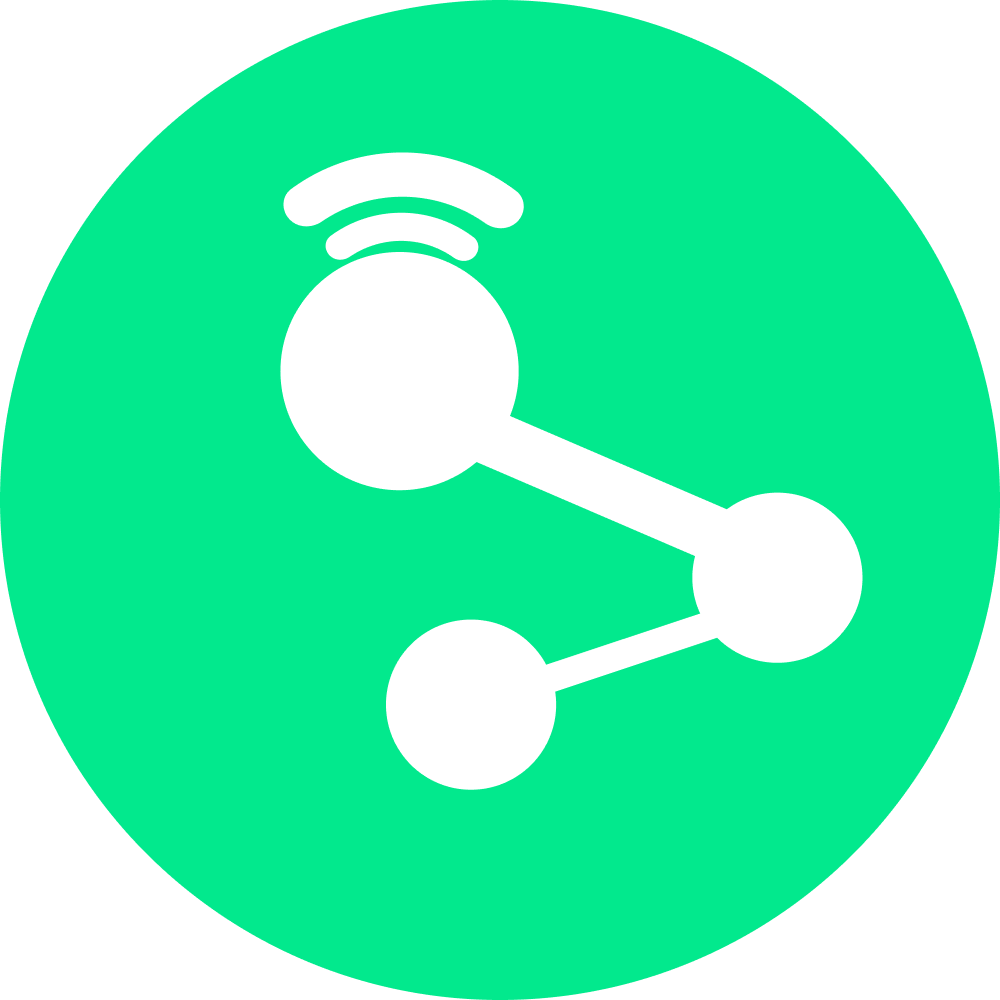
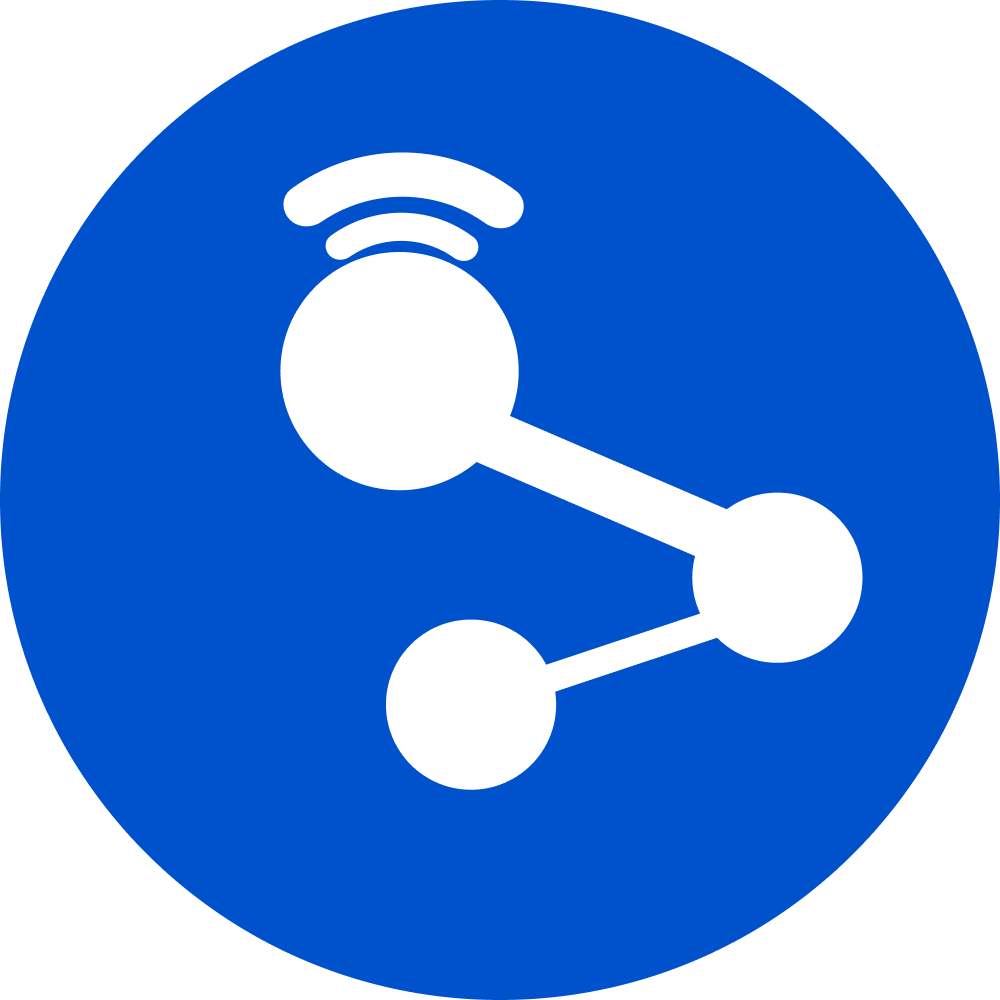
producción

diff --git a/src/components/header/Header.jsx b/src/components/header/Header.jsx
@@ -1,13 +1,13 @@
 import React, { useState, useRef } from 'react';
-import {
-  Plus,
-} from 'lucide-react';
+import { Plus } from 'lucide-react';
 import {
   BellOutlined,
   MailOutlined,
   CalendarOutlined,
   SettingOutlined,
-  LogoutOutlined
+  LogoutOutlined,
+  QuestionCircleOutlined,
+  AppstoreOutlined
 } from '@ant-design/icons';
 import {
   Input,
@@ -15,14 +15,19 @@ import {
   Tooltip,
   Dropdown,
   Menu,
-  Button
+  Button,
+  Space
 } from 'antd';
 import { useNavigate, Link } from 'react-router-dom';
 import { useSocket } from '../Context/SocketContext';
 import { useAuth } from '../Context/AuthProvider';
 import NotificationModal from '../communication/components/NotificationModal';
 import PlusModal from "../MoneyManager/transactions/PlusModal";
-const Header = ({ unreadEmailsCount }) => {
+
+import picture from '../../images/F.png';
+
+
+const Header = ({ }) => {
   const [showNotificationModal, setShowNotificationModal] = useState(false);
   const [searchTerm, setSearchTerm] = useState('');
   const navigate = useNavigate();
@@ -78,62 +83,78 @@ const Header = ({ unreadEmailsCount }) => {
   );
 
   return (
-    <div className="fixed top-0 left-0 w-full bg-white shadow-sm z-50 h-11 flex items-center px-4">
+    <div className="fixed top-0 left-0 w-full bg-white border-b border-gray-200 z-50 h-14 flex items-center px-4">
       <div className="w-full flex items-center justify-between">
-        <Link to="/index">
-          <img
-            src="https://res.cloudinary.com/djbe9agfz/image/upload/v1726013391/LOGO_i1vjvs.png"
-            alt="Logo Lanet"
-            className="h-6 "
-          />
-        </Link>
-        <div className="flex items-center space-x-3">
+        <div className="flex items-center space-x-4">
 
-          <PlusModal
-            isOpen={isPlusModalOpen}
-            onClose={closePlusModal}
-            buttonPosition={buttonPosition}
-          />
-
-          <Button
-            ref={createButtonRef}
-            onClick={openPlusModal}
-            className="px-4 py-1 bg-green-500 text-white"
-            style={{ borderRadius: 0 }}
-          >
-            Crear
-            <Plus className="w-5 h-5" />
-
-          </Button>
-          <Input.Search
-            placeholder="Search..."
-            allowClear
-            enterButton
-            value={searchTerm}
-            onChange={(e) => setSearchTerm(e.target.value)}
-            onSearch={handleSearch}
-            style={{ width: 180 }}
-            className="hidden md:block"
-          />
-
-
-          <Tooltip title="Notifications">
-            <Badge count={notifications.length} size="small">
-              <BellOutlined
-                className="text-lg cursor-pointer"
-                onClick={() => setShowNotificationModal(true)}
-              />
-            </Badge>
-          </Tooltip>
-          <Tooltip title="Calendar">
-            <CalendarOutlined
-              className="text-lg cursor-pointer"
-              onClick={() => navigate('/index/calendar')}
+          <Link to="/index" className="flex items-center space-x-2">
+            <img
+              src={picture}
+              alt="Logo"
+              className="h-8"
             />
-          </Tooltip>
-          <Dropdown overlay={menu} trigger={['click']}>
-            <SettingOutlined className="text-lg cursor-pointer" />
-          </Dropdown>
+            <span className="text-[#44546f] text-lg font-medium">Ispsuite</span>
+          </Link>
+        </div>
+
+        <div className="flex items-center w-[65%] justify-between">
+          <div className='flex items-center '>
+            <Input.Search
+              placeholder="Buscar"
+              allowClear
+              onSearch={handleSearch}
+              value={searchTerm}
+              onChange={(e) => setSearchTerm(e.target.value)}
+              style={{
+                width: 400,
+                maxWidth: '100%'
+              }}
+              className="hidden md:block mr-2"
+            />
+
+
+            <Button
+              ref={createButtonRef}
+              onClick={openPlusModal}
+              type="primary"
+              className="flex items-center"
+              style={{
+                backgroundColor: '#0052CC',
+                height: '32px',
+                borderRadius: '3px',
+                padding: '0 10px'
+              }}
+            >
+              <Plus className="w-4 h-4 mr-1" />
+              Crear
+            </Button>
+
+          </div>
+
+
+          <Space size="middle">
+            <Tooltip title="Notificaciones">
+              <Badge count={notifications.length} size="small">
+                <BellOutlined className="text-[#44546f] text-xl cursor-pointer hover:bg-[#091e420f] p-2 rounded" />
+              </Badge>
+            </Tooltip>
+
+            <Tooltip title="Ayuda">
+              <QuestionCircleOutlined className="text-[#44546f] text-xl cursor-pointer hover:bg-[#091e420f] p-2 rounded" />
+            </Tooltip>
+
+            <Tooltip title="Configuración">
+              <Dropdown overlay={menu} trigger={['click']}>
+                <SettingOutlined className="text-[#44546f] text-xl cursor-pointer hover:bg-[#091e420f] p-2 rounded" />
+              </Dropdown>
+            </Tooltip>
+
+            <Tooltip title="Perfil">
+              <div className="w-8 h-8 rounded-full bg-[#0052CC] flex items-center justify-center cursor-pointer">
+                <span className="text-white text-sm">US</span>
+              </div>
+            </Tooltip>
+          </Space>
         </div>
       </div>
 
@@ -142,8 +163,15 @@ const Header = ({ unreadEmailsCount }) => {
         onClose={() => setShowNotificationModal(false)}
         notifications={notifications}
       />
+
+      <PlusModal
+        isOpen={isPlusModalOpen}
+        onClose={closePlusModal}
+        buttonPosition={buttonPosition}
+      />
     </div>
   );
+
 };
 
 export default Header;

diff --git a/src/components/MoneyManager/transactions/Add/expense/AddExpense.jsx b/src/components/MoneyManager/transactions/Add/expense/AddExpense.jsx
@@ -31,6 +31,7 @@ const AddExpense = () => {
   const [tipo, setTipo] = useState("");
   const [accounts, setAccounts] = useState([]);
   const [date, setDate] = useState(dayjs());
+  const [proveedores, setProveedores] = useState("");
 
 
 
@@ -96,11 +97,26 @@ const AddExpense = () => {
   useEffect(() => {
 
     fetchAccounts();
+    fetchProveedores();
 
   }, []);
 
 
   //---------------------------FETCH---------------------------//
+
+
+
+
+  const fetchProveedores = async () => {
+    try {
+      const response = await fetch(`${apiUrl}/providers`);
+      const data = await response.json();
+      // Filtrar las cuentas, excluyendo los préstamos
+      setProveedores(data);
+    } catch (error) {
+      console.error("Error al obtener las cuentas:", error);
+    }
+  };
 
 
 
@@ -327,7 +343,6 @@ const AddExpense = () => {
               className="w-64" // Clase para ajustar el ancho
             />
 
-
             <div className="flex items-center justify-end space-x-4">
               <span className="text-gray-600">Proveedor:</span>
               <Select
@@ -336,12 +351,13 @@ const AddExpense = () => {
                   setproveedor(value);
                 }}
                 className="w-64"
-                placeholder="Selecciona un cajero"
+                placeholder="Selecciona un proveedor"
               >
-                <option value="Proveedor 1">Proveedor 1</option>
-                <option value="Proveedor 2">Proveedor 2</option>
-                <option value="Proveedor 3">Proveedor 3</option>
-
+                {Array.isArray(proveedores) && proveedores.map(provider => (
+                  <Select.Option key={provider.id} value={provider.id}>
+                    {provider.nombre_comercial}
+                  </Select.Option>
+                ))}
               </Select>
             </div>
           </div>
@@ -449,7 +465,7 @@ const AddExpense = () => {
             disabled={!isExpenseSaved} // Deshabilitar el botón si el Egreso no ha sido guardado
             onClick={handleDownloadPDF}
             className="bg-transparent border border-[#007072] text-[#007072] hover:bg-[#007072] hover:text-white"
-            style={{ borderRadius: 0 }} // Eliminar redondez de los bordes
+            style={{ borderRadius: 2 }} // Eliminar redondez de los bordes
           >
             Descargar PDF
           </Button>
@@ -468,7 +484,7 @@ const AddExpense = () => {
               loading={loading}
               onClick={() => document.getElementById("bulkUploadInput").click()}
               className="bg-transparent border border-[#007072] text-[#007072] hover:bg-[#007072] hover:text-white"
-              style={{ borderRadius: 0 }} // Eliminar redondez de los bordes
+              style={{ borderRadius: 2 }} // Eliminar redondez de los bordes
             >
               Cargar Egresos Masivos
             </Button>
@@ -477,11 +493,11 @@ const AddExpense = () => {
             onClick={handleCancel}
 
             className="bg-transparent border border-gray-500 text-gray-500 hover:bg-gray-500 hover:text-white"
-            style={{ borderRadius: 0 }} // Eliminar redondez de los bordes
+            style={{ borderRadius: 2 }} // Eliminar redondez de los bordes
           >
             Cancelar
           </Button>
-          <Button onClick={handleSave} type="primary" className="bg-[#007072]" style={{ borderRadius: 0 }}>
+          <Button onClick={handleSave} type="primary" className="bg-[#007072]" style={{ borderRadius: 2 }}>
             Aceptar
           </Button>
         </Space>

diff --git a/src/components/MoneyManager/transactions/transactions.jsx b/src/components/MoneyManager/transactions/transactions.jsx
@@ -59,7 +59,7 @@ const DynamicButton = ({ icon: Icon, onClick, children, type = "default" }) => {
       case "expense":
         return "hover:bg-red-600 bg-red-500";
       case "transfer":
-        return "hover:bg-blue-600 bg-blue-500";
+        return "hover:bg-[#0052CC] bg-[#0052CC]";
       default:
         return "hover:bg-gray-600 bg-gray-500";
     }
@@ -120,6 +120,8 @@ const TransactionsDashboard = () => {
   const [monthlyBalance, setMonthlyBalance] = useState(0);
   const [monthlyIncome, setMonthlyIncome] = useState(0);
   const [monthlyExpenses, setMonthlyExpenses] = useState(0);
+
+  
 
   const openModal = () => {
     setEditTransaction(null);
@@ -387,7 +389,7 @@ const TransactionsDashboard = () => {
       {/* Barra superior de herramientas */}
       <div className="bg-gray border-b sticky top-0 z-0 shadow-sm">
         {/* Sección superior con botones de acción */}
-        <div className="max-full mx-auto py-2 px-3">
+        <div className="max-full mx-auto pt-4 pl-4 pr-4">
           <div className="flex justify-between items-center">
             <div className="flex items-center space-x-4">
               <div className="flex items-center gap-2">
@@ -628,11 +630,6 @@ const TransactionsDashboard = () => {
         transactionToEdit={editTransaction}
         transactionType={transactionType}
       />
-
-
-
-
-
       <VoucherContentModal
         isOpen={isContentModalOpen}
         onClose={closeContentModal}

diff --git a/src/components/MoneyManager/transactions/Add/Income/AddIncome.jsx b/src/components/MoneyManager/transactions/Add/Income/AddIncome.jsx
@@ -698,17 +698,17 @@ const AddIncome = ({ onTransactionAdded, transactionToEdit }) => {
               loading={loading}
               onClick={() => document.getElementById("bulkUploadInput").click()}
               className="bg-transparent border border-[#007072] text-[#007072] hover:bg-[#007072] hover:text-white"
-              style={{ borderRadius: 0 }}
+              style={{ borderRadius: 2 }}
             >
               Cargar Ingresos Masivos
             </Button>
           </div>
           <Button onClick={handleCancel}
             className="bg-transparent border border-gray-500 text-gray-500 hover:bg-gray-500 hover:text-white"
-            style={{ borderRadius: 0 }} >
+            style={{ borderRadius: 2 }} >
             Cancelar
           </Button>
-          <Button onClick={handleSave} type="primary" className="bg-[#007072]" style={{ borderRadius: 0 }}>
+          <Button onClick={handleSave} type="primary" className="bg-[#007072]" style={{ borderRadius: 2 }}>
             Guardar
           </Button>
         </Space>

diff --git a/src/components/root.jsx b/src/components/root.jsx
@@ -354,8 +354,8 @@ export default function Root() {
         {/* Sidebar */}
         <div
           className={`${isExpanded ? "w-48" : "w-18"} 
-                bg-gray-200 text-black ${isOpen ? "block" : "hidden"} 
-                lg:block fixed top-0 left-0 h-full transition-all duration-300`}
+                bg-white text-black ${isOpen ? "block" : "hidden"} 
+               p-4 lg:block fixed top-0 left-0 h-full transition-all duration-300`}
         >
           {/* {isExpanded && (
             <UserProfileHeader

diff --git a/index.html b/index.html
@@ -4,7 +4,7 @@
     <meta charset="UTF-8" />
     <link rel="icon" type="image/svg+xml" href="./src/images/F.png" />
     <meta name="viewport" content="width=device-width, initial-scale=1.0" />
-    <title>ISP Suite</title>
+    <title>Ispsuite</title>
   </head>
   <body>
     <div id="root"></div>

diff --git a/src/components/MoneyManager/transactions/components/Header.jsx b/src/components/MoneyManager/transactions/components/Header.jsx
@@ -49,7 +49,7 @@ const Header = ({ onNavClick }) => {
   };
 
   return (
-    <nav className="bg-white w-full">
+    <nav className="mt-[-1em] bg-white w-full">
       <div className="flex justify-center border-b">
         {navItems.map((item, index) => (
           <div 
